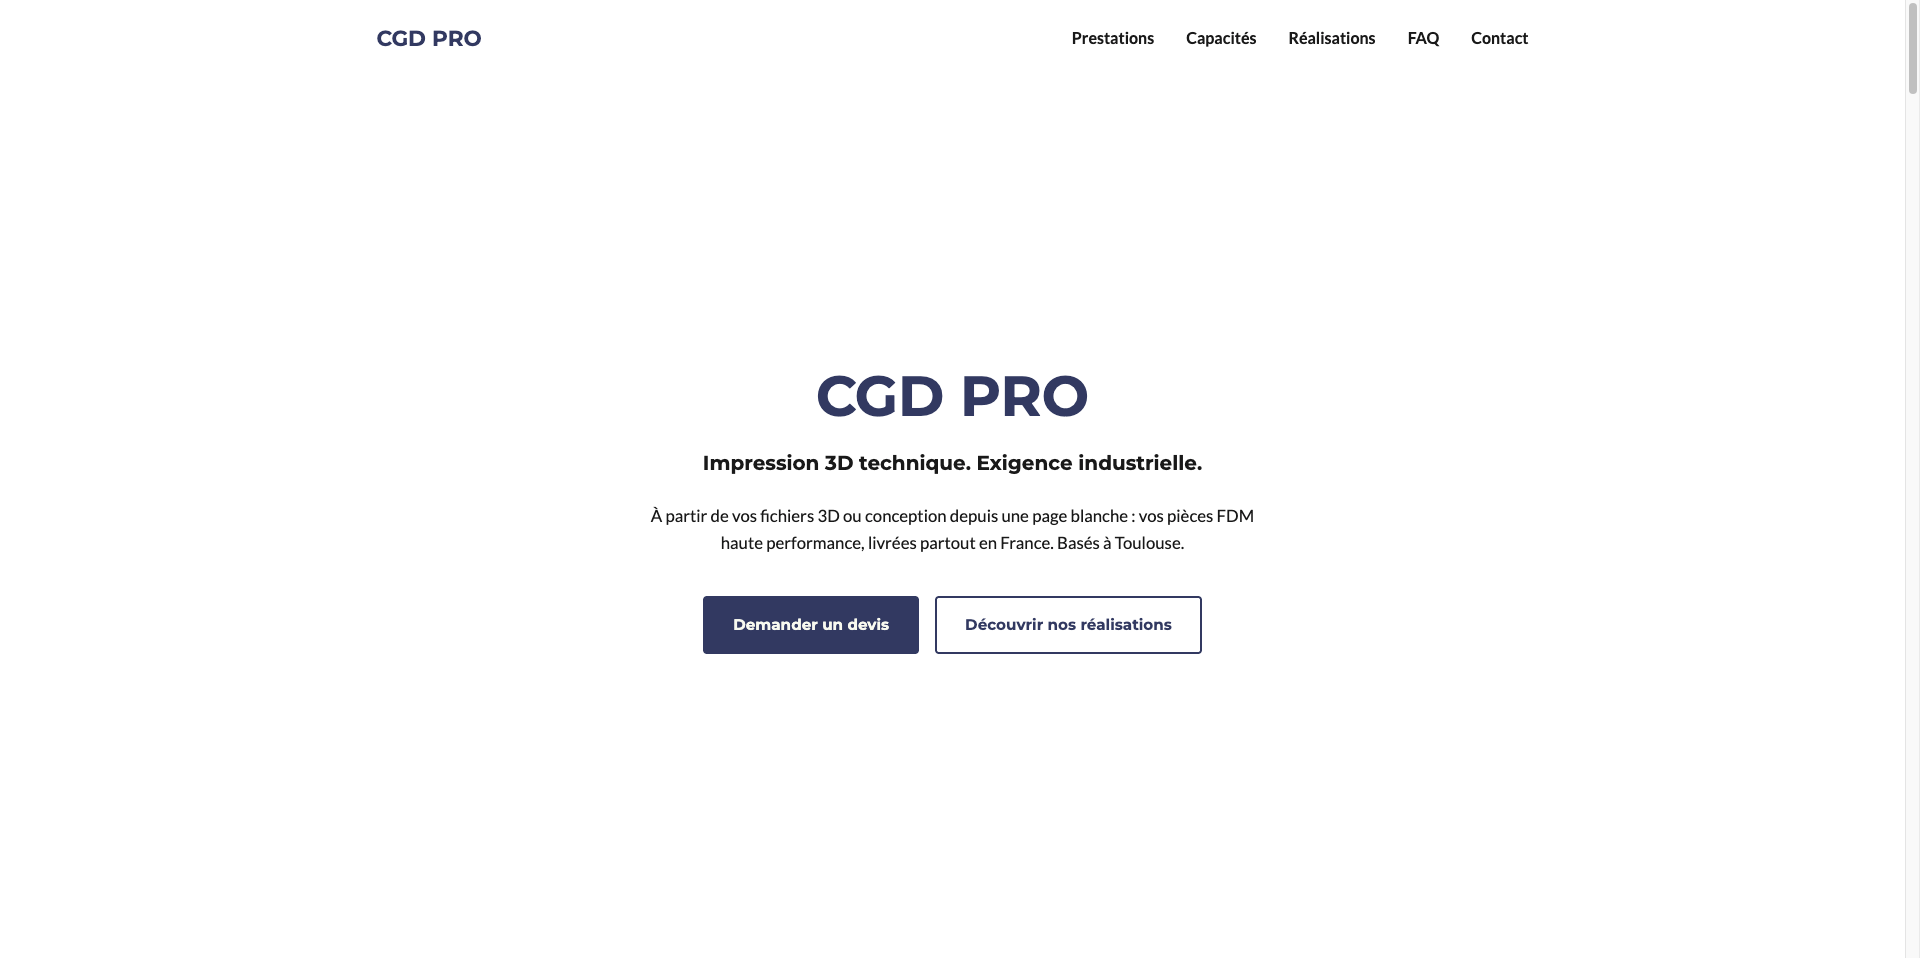
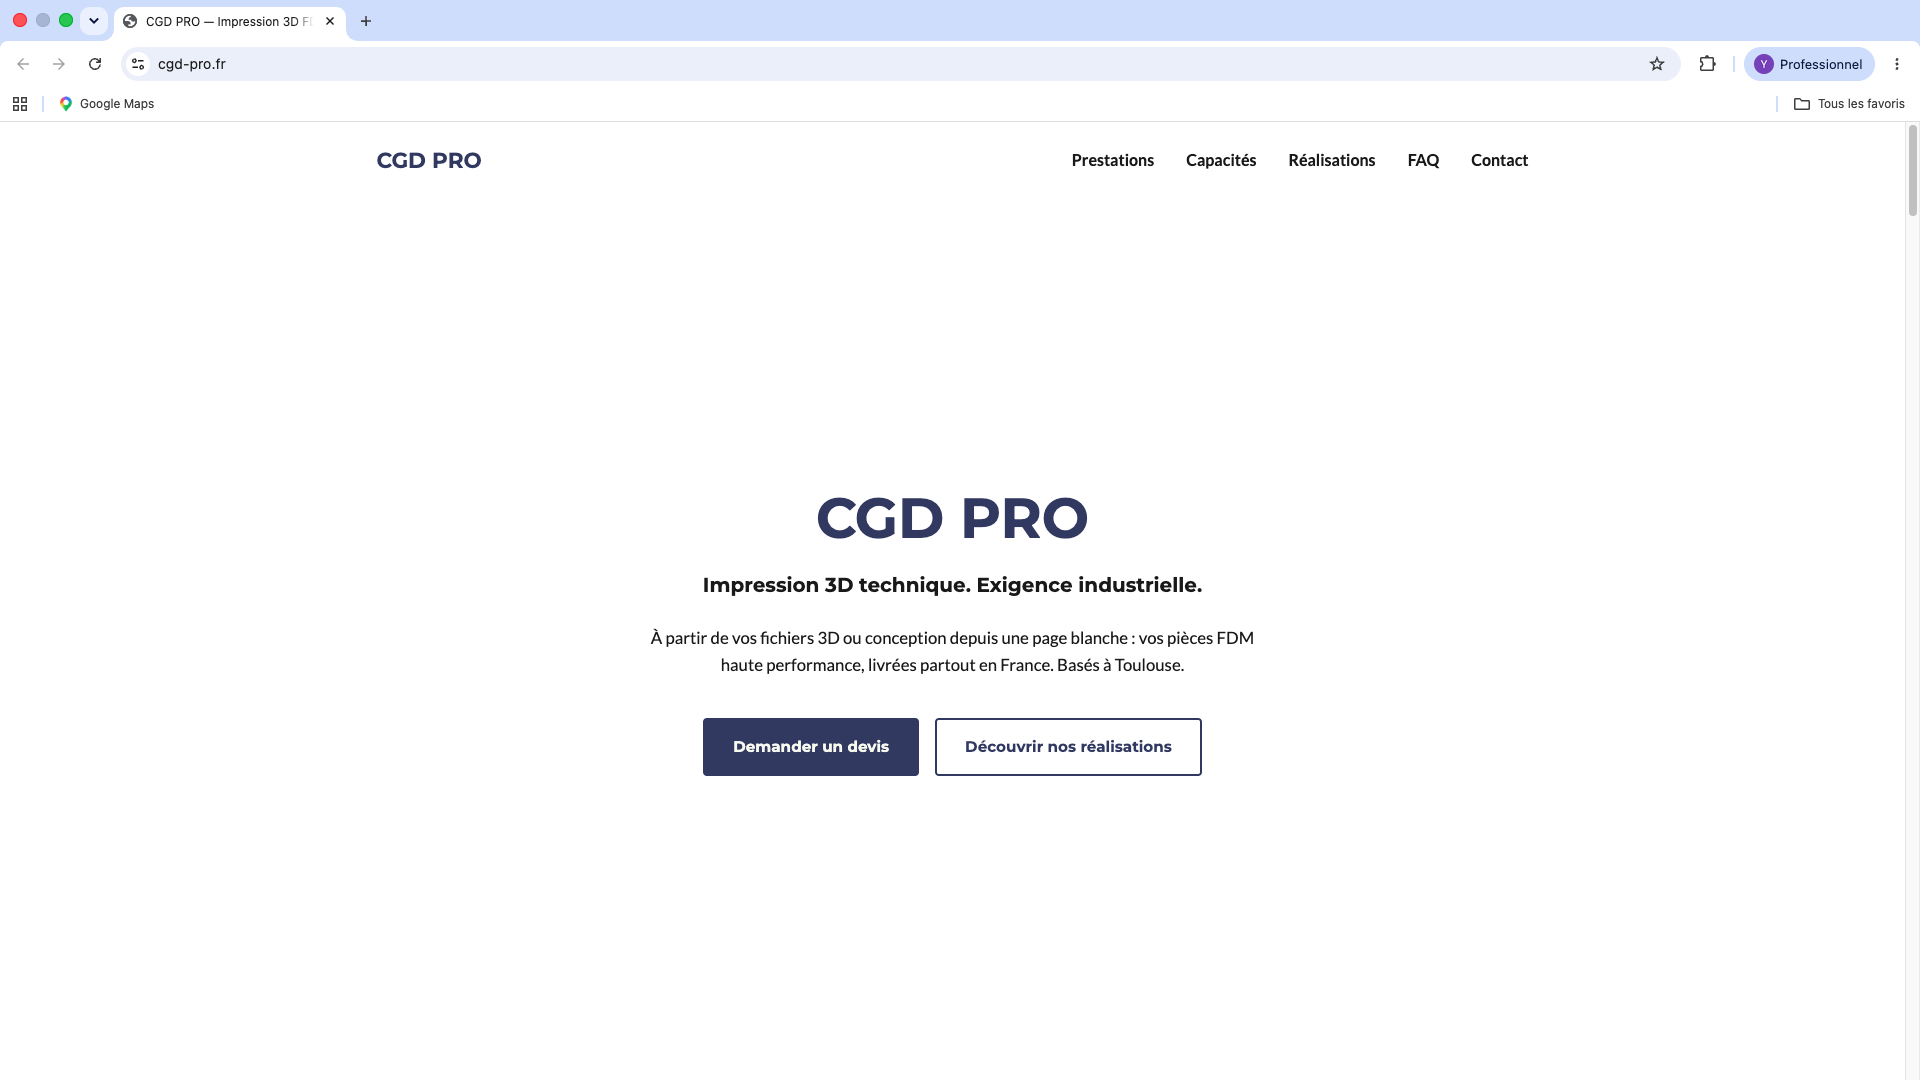
fix: lien navbar réalisations, met à jour photo CGD Pro, ajoute carrousel lightbox sur la galerie réalisations

diff --git a/components/RealisationsGallery.tsx b/components/RealisationsGallery.tsx
@@ -1,0 +1,251 @@
+"use client";
+
+import { useEffect, useState } from "react";
+import Image from "next/image";
+import { AnimatePresence, motion } from "framer-motion";
+
+type Projet = {
+  image: string;
+  alt: string;
+  tag: string;
+  nom: string;
+  description: string;
+  lien: string;
+  badge?: string;
+};
+
+export default function RealisationsGallery({ projets }: { projets: Projet[] }) {
+  const [activeIndex, setActiveIndex] = useState<number | null>(null);
+
+  useEffect(() => {
+    if (activeIndex === null) return;
+
+    document.body.style.overflow = "hidden";
+
+    const handleKeyDown = (e: KeyboardEvent) => {
+      if (e.key === "Escape") setActiveIndex(null);
+    };
+    window.addEventListener("keydown", handleKeyDown);
+
+    return () => {
+      document.body.style.overflow = "";
+      window.removeEventListener("keydown", handleKeyDown);
+    };
+  }, [activeIndex]);
+
+  const goPrev = () => {
+    setActiveIndex((i) => (i === null ? null : (i - 1 + projets.length) % projets.length));
+  };
+
+  const goNext = () => {
+    setActiveIndex((i) => (i === null ? null : (i + 1) % projets.length));
+  };
+
+  const activeProjet = activeIndex !== null ? projets[activeIndex] : null;
+
+  return (
+    <>
+      <div className="grid grid-cols-1 md:grid-cols-3 gap-10">
+        {projets.map((projet, i) => (
+          <div
+            key={projet.nom}
+            style={{ display: "flex", flexDirection: "column", gap: "1rem" }}
+          >
+            <div
+              onClick={() => setActiveIndex(i)}
+              style={{
+                height: "220px",
+                borderRadius: "4px",
+                overflow: "hidden",
+                position: "relative",
+                cursor: "pointer",
+              }}
+            >
+              <Image
+                src={projet.image}
+                alt={projet.alt}
+                width={600}
+                height={220}
+                className="w-full h-full object-cover"
+              />
+              {projet.badge && (
+                <span
+                  style={{
+                    position: "absolute",
+                    top: "0.6rem",
+                    right: "0.6rem",
+                    backgroundColor: "var(--noir)",
+                    color: "#FFFFFF",
+                    fontSize: "0.75rem",
+                    padding: "0.25rem 0.6rem",
+                    borderRadius: "2px",
+                  }}
+                >
+                  {projet.badge}
+                </span>
+              )}
+            </div>
+
+            <p
+              className="text-xs font-medium tracking-widest uppercase"
+              style={{ color: "var(--terracotta)" }}
+            >
+              {projet.tag}
+            </p>
+
+            <h2
+              className="leading-tight"
+              style={{
+                fontFamily: "var(--font-playfair)",
+                fontSize: "clamp(1.2rem, 2vw, 1.5rem)",
+                color: "var(--noir)",
+              }}
+            >
+              {projet.nom}
+            </h2>
+
+            <p
+              className="text-sm leading-relaxed"
+              style={{ color: "var(--gris-texte)" }}
+            >
+              {projet.description}
+            </p>
+
+            <a
+              href={projet.lien}
+              target="_blank"
+              rel="noopener noreferrer"
+              className="text-sm font-medium w-fit border-b border-transparent hover:border-current transition-colors"
+              style={{ color: "var(--terracotta)" }}
+            >
+              Voir le site →
+            </a>
+          </div>
+        ))}
+      </div>
+
+      <AnimatePresence>
+        {activeProjet && (
+          <motion.div
+            initial={{ opacity: 0 }}
+            animate={{ opacity: 1 }}
+            exit={{ opacity: 0 }}
+            transition={{ duration: 0.3, ease: "easeOut" }}
+            onClick={() => setActiveIndex(null)}
+            style={{
+              position: "fixed",
+              inset: 0,
+              backgroundColor: "rgba(0,0,0,0.9)",
+              zIndex: 100,
+              display: "flex",
+              alignItems: "center",
+              justifyContent: "center",
+            }}
+          >
+            <button
+              onClick={(e) => {
+                e.stopPropagation();
+                setActiveIndex(null);
+              }}
+              aria-label="Fermer"
+              style={{
+                position: "absolute",
+                top: "1.5rem",
+                right: "1.5rem",
+                color: "#FFFFFF",
+                fontSize: "2rem",
+                lineHeight: 1,
+                background: "none",
+                border: "none",
+                cursor: "pointer",
+              }}
+            >
+              ×
+            </button>
+
+            <button
+              onClick={(e) => {
+                e.stopPropagation();
+                goPrev();
+              }}
+              aria-label="Précédent"
+              style={{
+                position: "absolute",
+                left: "1rem",
+                top: "50%",
+                transform: "translateY(-50%)",
+                color: "#FFFFFF",
+                fontSize: "2.5rem",
+                lineHeight: 1,
+                background: "none",
+                border: "none",
+                cursor: "pointer",
+              }}
+            >
+              ‹
+            </button>
+
+            <button
+              onClick={(e) => {
+                e.stopPropagation();
+                goNext();
+              }}
+              aria-label="Suivant"
+              style={{
+                position: "absolute",
+                right: "1rem",
+                top: "50%",
+                transform: "translateY(-50%)",
+                color: "#FFFFFF",
+                fontSize: "2.5rem",
+                lineHeight: 1,
+                background: "none",
+                border: "none",
+                cursor: "pointer",
+              }}
+            >
+              ›
+            </button>
+
+            <div
+              onClick={(e) => e.stopPropagation()}
+              style={{
+                display: "flex",
+                flexDirection: "column",
+                alignItems: "center",
+                gap: "1rem",
+                maxWidth: "90vw",
+              }}
+            >
+              <div
+                style={{
+                  position: "relative",
+                  width: "90vw",
+                  maxWidth: "1000px",
+                  height: "85vh",
+                }}
+              >
+                <Image
+                  src={activeProjet.image}
+                  alt={activeProjet.alt}
+                  fill
+                  className="object-contain"
+                />
+              </div>
+
+              <p
+                style={{
+                  color: "#FFFFFF",
+                  fontFamily: "var(--font-playfair)",
+                  fontSize: "1.1rem",
+                }}
+              >
+                {activeProjet.nom}
+              </p>
+            </div>
+          </motion.div>
+        )}
+      </AnimatePresence>
+    </>
+  );
+}

diff --git a/app/realisations/page.tsx b/app/realisations/page.tsx
@@ -1,6 +1,6 @@
-import Image from "next/image";
 import Navbar from "@/components/Navbar";
 import Footer from "@/components/Footer";
+import RealisationsGallery from "@/components/RealisationsGallery";
 
 const projets = [
   {
@@ -91,75 +91,7 @@ export default function RealisationsPage() {
           Tous mes projets.
         </h1>
 
-        <div className="grid grid-cols-1 md:grid-cols-3 gap-10">
-          {projets.map((projet) => (
-            <div
-              key={projet.nom}
-              style={{ display: "flex", flexDirection: "column", gap: "1rem" }}
-            >
-              <div style={{ height: "220px", borderRadius: "4px", overflow: "hidden", position: "relative" }}>
-                <Image
-                  src={projet.image}
-                  alt={projet.alt}
-                  width={600}
-                  height={220}
-                  className="w-full h-full object-cover"
-                />
-                {projet.badge && (
-                  <span
-                    style={{
-                      position: "absolute",
-                      top: "0.6rem",
-                      right: "0.6rem",
-                      backgroundColor: "var(--noir)",
-                      color: "#FFFFFF",
-                      fontSize: "0.75rem",
-                      padding: "0.25rem 0.6rem",
-                      borderRadius: "2px",
-                    }}
-                  >
-                    {projet.badge}
-                  </span>
-                )}
-              </div>
-
-              <p
-                className="text-xs font-medium tracking-widest uppercase"
-                style={{ color: "var(--terracotta)" }}
-              >
-                {projet.tag}
-              </p>
-
-              <h2
-                className="leading-tight"
-                style={{
-                  fontFamily: "var(--font-playfair)",
-                  fontSize: "clamp(1.2rem, 2vw, 1.5rem)",
-                  color: "var(--noir)",
-                }}
-              >
-                {projet.nom}
-              </h2>
-
-              <p
-                className="text-sm leading-relaxed"
-                style={{ color: "var(--gris-texte)" }}
-              >
-                {projet.description}
-              </p>
-
-              <a
-                href={projet.lien}
-                target="_blank"
-                rel="noopener noreferrer"
-                className="text-sm font-medium w-fit border-b border-transparent hover:border-current transition-colors"
-                style={{ color: "var(--terracotta)" }}
-              >
-                Voir le site →
-              </a>
-            </div>
-          ))}
-        </div>
+        <RealisationsGallery projets={projets} />
 
       </div>
     </main>

diff --git a/components/Navbar.tsx b/components/Navbar.tsx
@@ -53,7 +53,7 @@ export default function Navbar() {
       <ul className="hidden md:flex items-center gap-8 text-sm font-medium">
         {[
           { href: "/site-web#services",     label: "Services" },
-          { href: "/site-web#realisations", label: "Réalisations" },
+          { href: "/realisations", label: "Réalisations" },
           { href: "/site-web#apropos",      label: "À propos" },
           { href: "/site-web#contact",      label: "Contact" },
         ].map(({ href, label }) => (